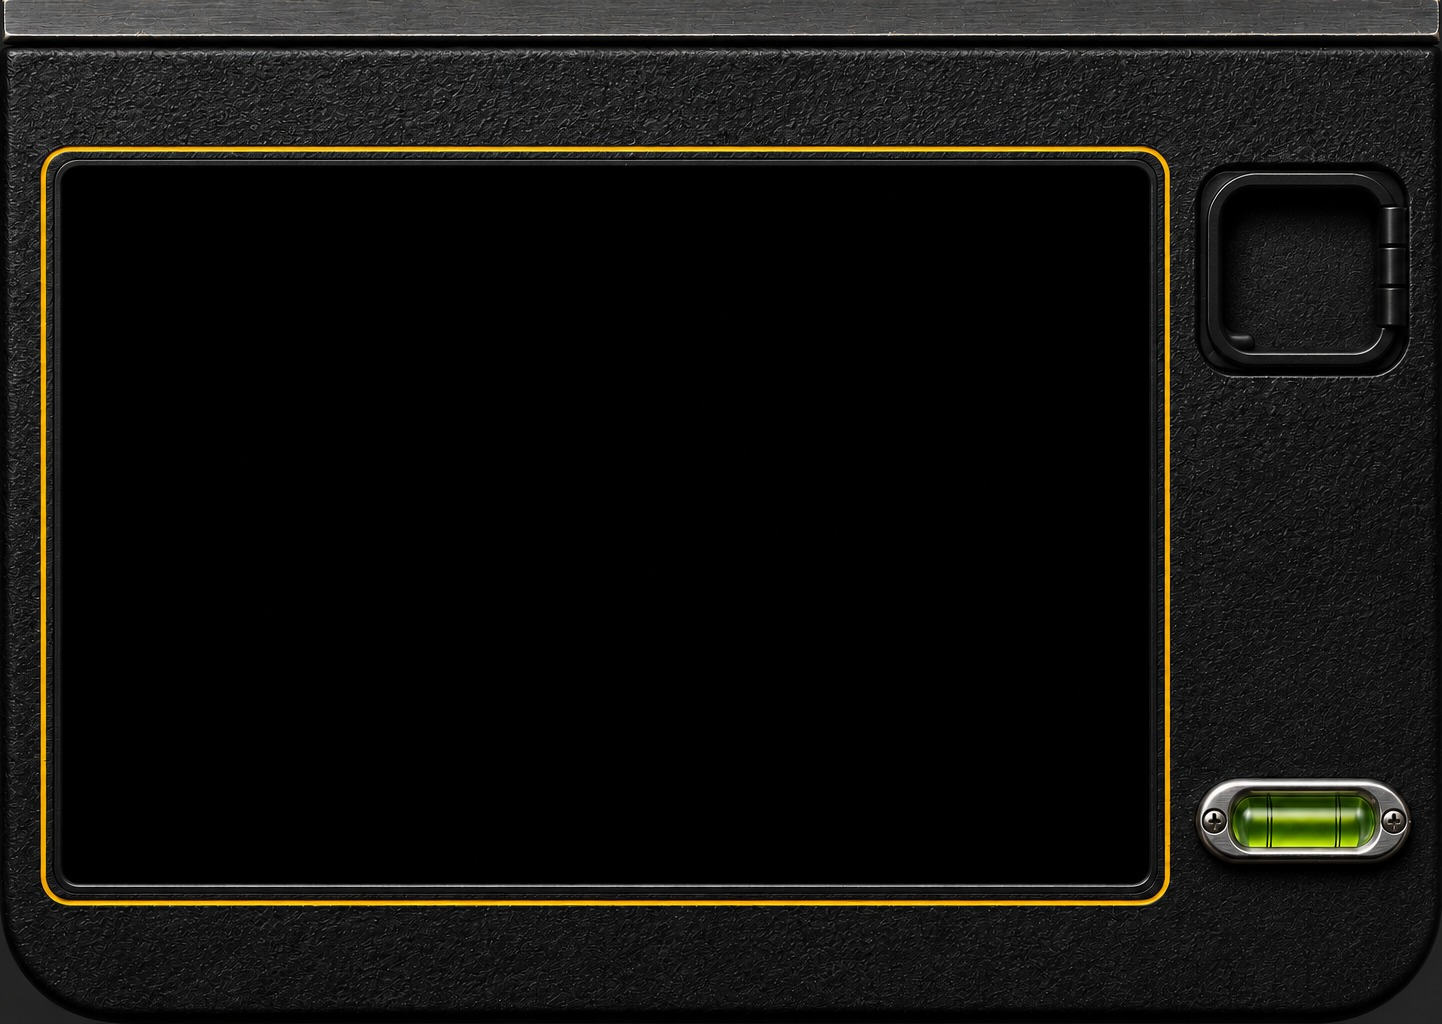
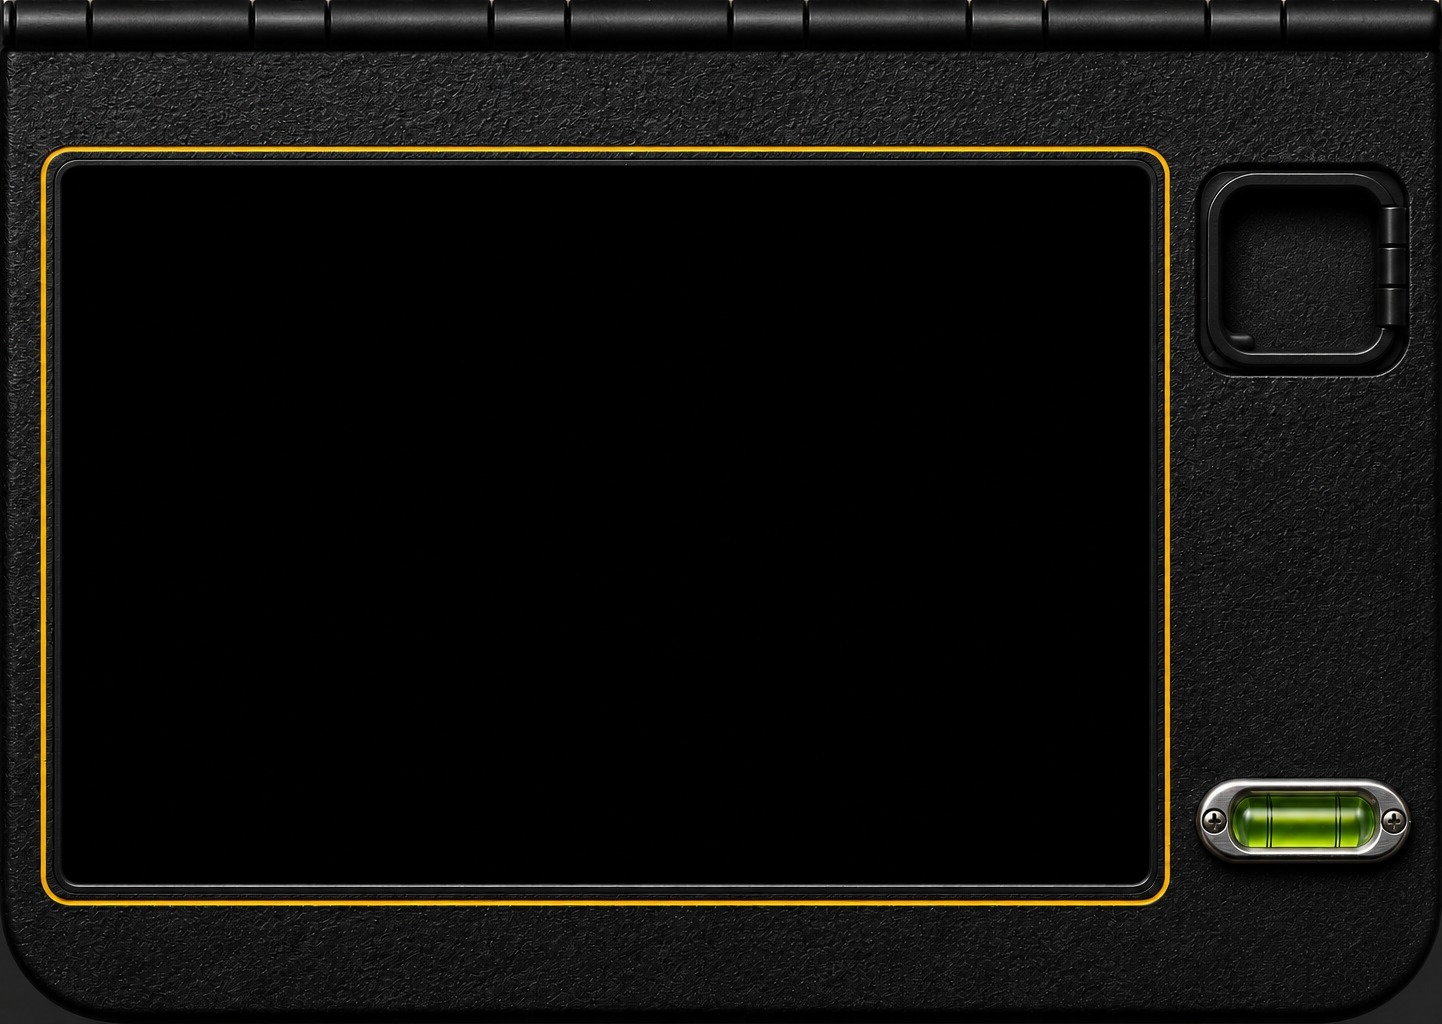
Open phone: the way up and the hold are decided together at launch (no visible turn); the seam between body and finder is a black piano hinge (GPT, composited onto the deck's top band); the body's window goes back to the live view after a look at the last shot. Build 12

Changed region(s): [[0.0, 0.0, 1.0, 0.0625]]

diff --git a/cameragr/UI/Posture.swift b/cameragr/UI/Posture.swift
@@ -93,16 +93,22 @@ final class Posture: ObservableObject {
             let level = abs(g.x) > abs(g.y) + 0.25, book = abs(g.y) > abs(g.x) + 0.25
             let first = !self.heldKnown
             self.heldKnown = true
-            if first, self.awaitingHinge { self.awaitingHinge = false }
-            // Which way up, along whichever axis gravity now lies.
-            let along = self.hingeLevel ? g.x : g.y
-            if abs(along) > 0.5 {
-                let flipped = along > 0
-                if flipped != self.heldFlipped { self.heldFlipped = flipped; Diag.note("held \(flipped ? "the other way up" : "upright")") }
+            if first, self.awaitingHinge {
+                // Shown once the hold and the way up are both known (below).
+                DispatchQueue.main.async { self.awaitingHinge = false }
             }
-            if t - self.lastGravityNote > 2 {
-                self.lastGravityNote = t
-                Diag.note(String(format: "gravity x %.2f y %.2f z %.2f", g.x, g.y, g.z))
+            defer {
+                // Which way up, along whichever axis gravity now lies (after the
+                // hold is known, so a launch decides both at once: no turn on screen).
+                let along = self.hingeLevel ? g.x : g.y
+                if abs(along) > 0.5 {
+                    let flipped = along > 0
+                    if flipped != self.heldFlipped {
+                        var quiet = Transaction(); quiet.disablesAnimations = true
+                        withTransaction(quiet) { self.heldFlipped = flipped }
+                        Diag.note("held \(flipped ? "the other way up" : "upright")")
+                    }
+                }
             }
             if (level && !self.hingeLevel) || (book && self.hingeLevel) {
                 if first { self.hingeLevel = level; self.settle(); return }

diff --git a/cameragr/UI/CameraScreen.swift b/cameragr/UI/CameraScreen.swift
@@ -227,7 +227,9 @@ private extension CameraScreen {
                 .place(plate.frame)
                 .accessibilityHidden(true)
 
-            Viewfinder(showsLastShot: folded).place(plate.rect(Plate.viewfinder))
+            // The body's window is live again after a look at the last picture
+            // (user 11/24); the small window beside it keeps the last shot.
+            Viewfinder(showsLastShot: false).place(plate.rect(Plate.viewfinder))
             if model.isShareTrayOpen && !folded {
                 ShareTray().place(plate.rect(Plate.viewfinder))
                     .transition(.opacity)
